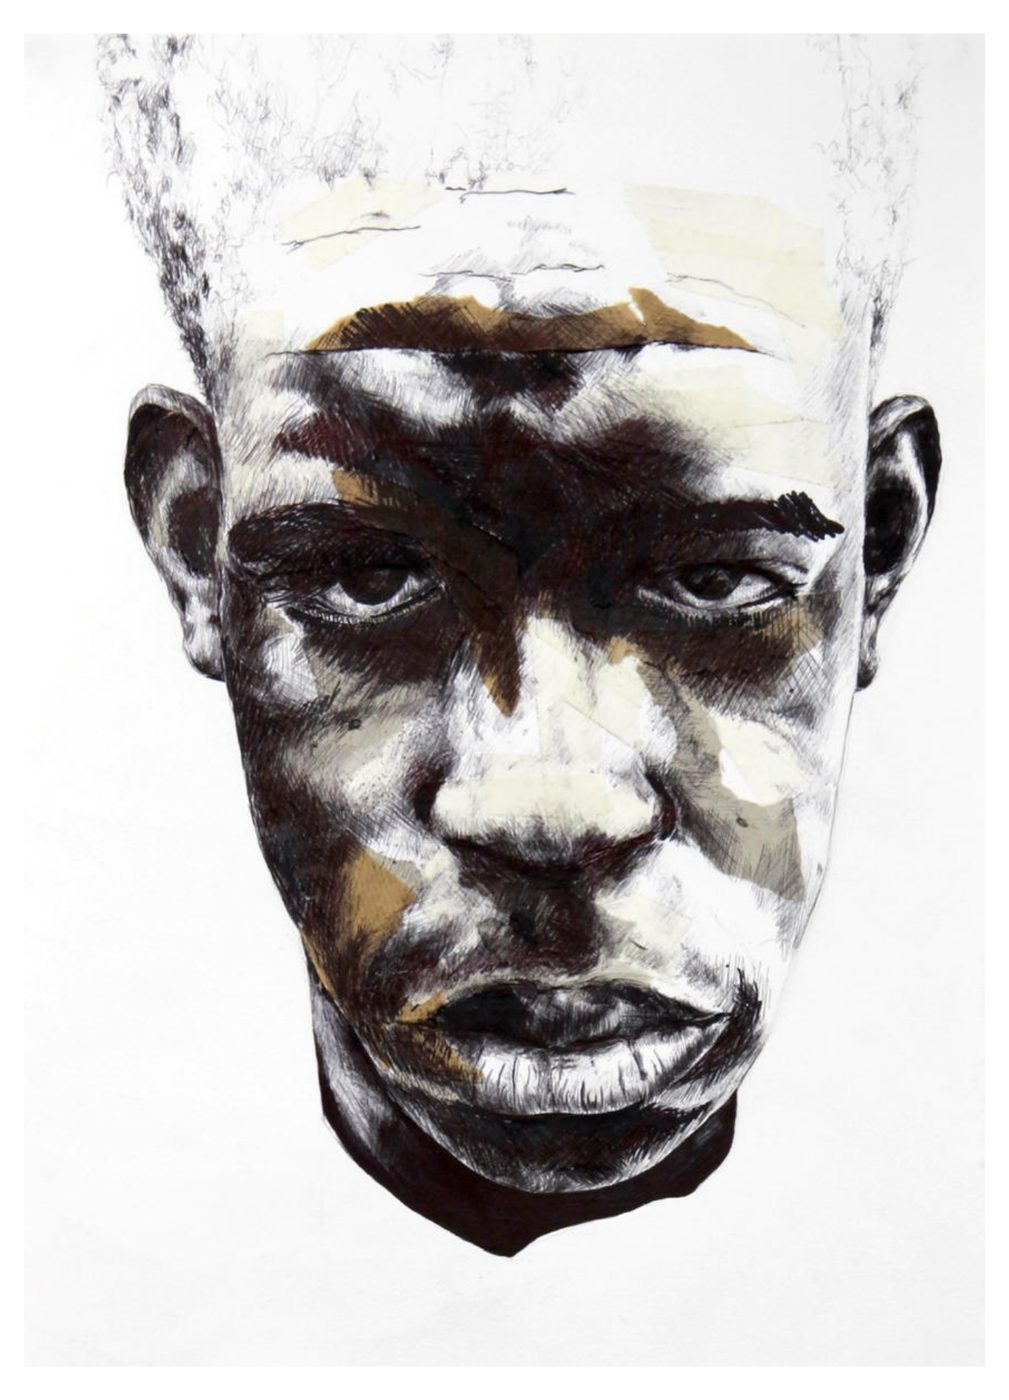
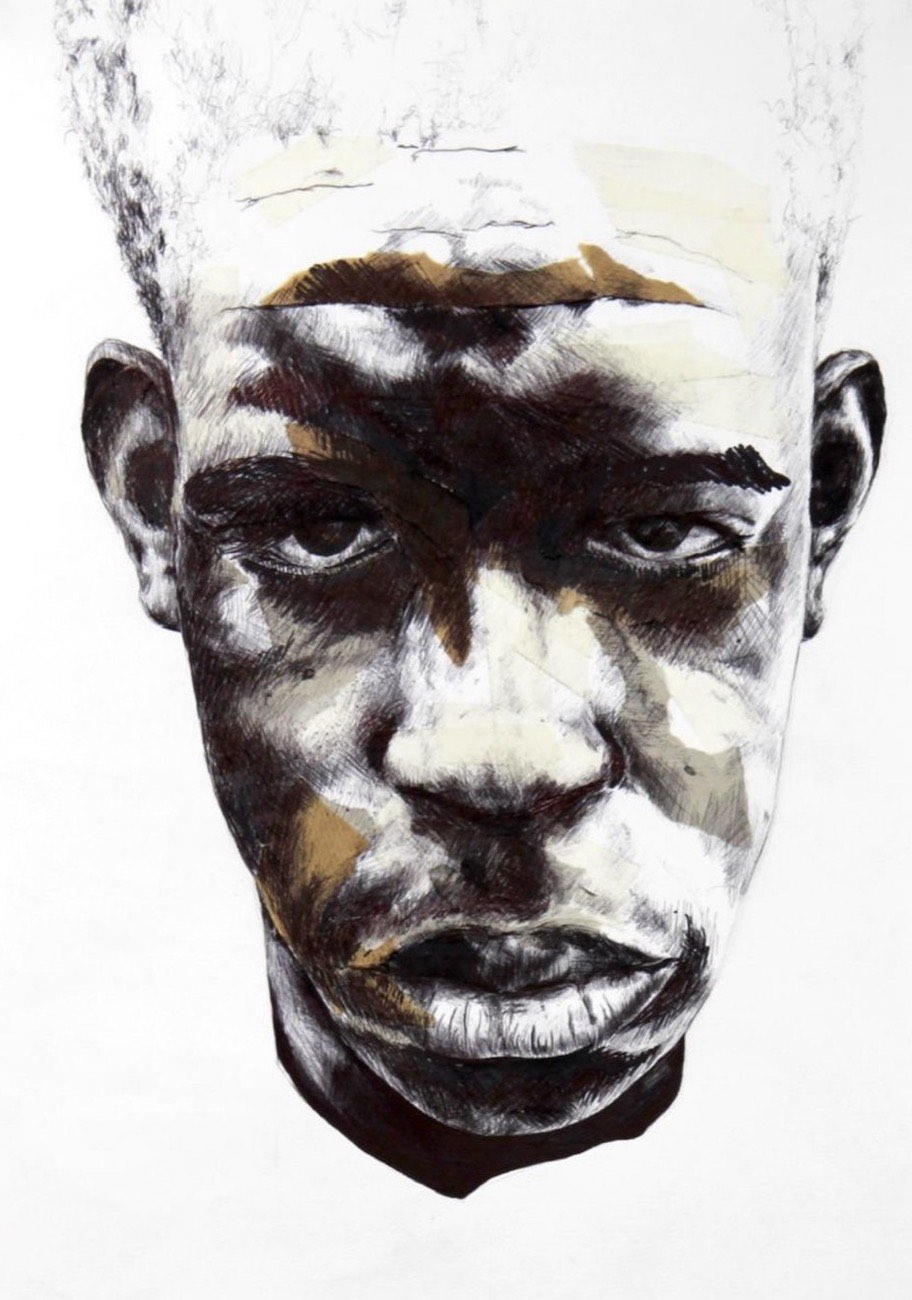
Add files via upload

diff --git a/index.html b/index.html
@@ -466,6 +466,14 @@
 
   .work-image-placeholder img { width: 100%; height: 100%; object-fit: cover; }
 
+  .work-image-wide.paper-blend {
+    background: var(--cream);
+  }
+
+  .paper-blend img {
+    mix-blend-mode: multiply;
+  }
+
   .work-image-placeholder span {
     font-family: var(--font-display);
     font-size: 11px;
@@ -1122,8 +1130,8 @@
 
       <!-- Work 3 -->
       <div class="work-item">
-        <div class="work-image-placeholder work-image-wide">
-          <img src="jay-web.jpg" alt="Jay by Ezra Myers" width="1009" height="1400" loading="lazy" decoding="async">
+        <div class="work-image-placeholder work-image-wide paper-blend">
+          <img src="jay-web.jpg" alt="Jay by Ezra Myers" width="912" height="1300" loading="lazy" decoding="async">
         </div>
         <div class="work-meta">
           <h2 class="work-title">Jay</h2>